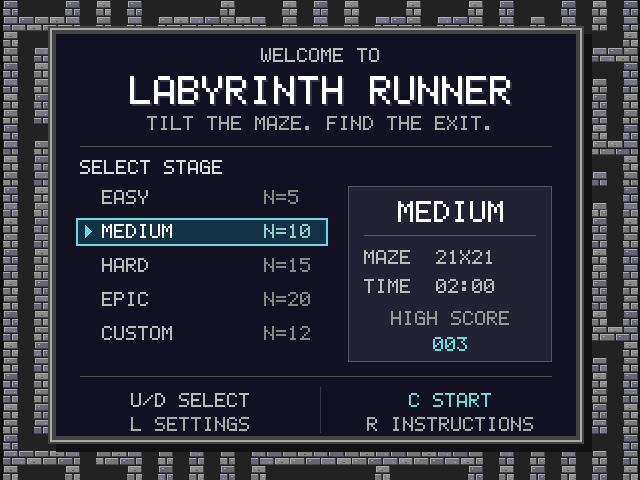
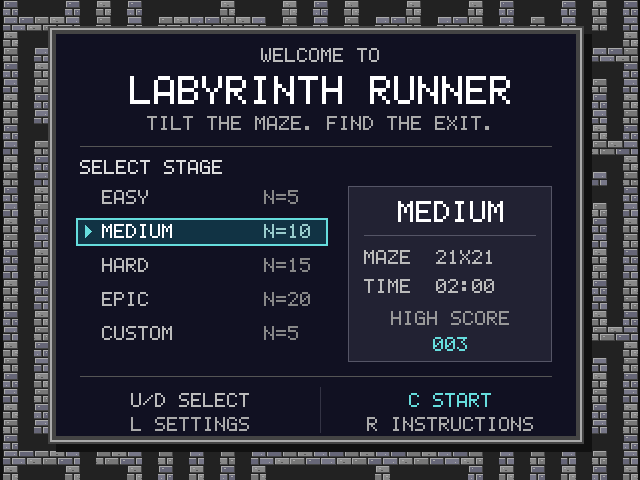
docs(10.1b): record simulations and combined routed build

Changed region(s): [[0.2188, 0.1562, 0.8125, 0.2188], [0.4375, 0.6875, 0.5, 0.7188]]

diff --git a/_bmad-output/implementation-artifacts/10-1b-menu-ui.md b/_bmad-output/implementation-artifacts/10-1b-menu-ui.md
@@ -1,7 +1,7 @@
 ---
 story_id: 10.1b
 title: Labyrinth Runner menu and state palettes
-status: in-progress
+status: review
 owner: CJX
 reviewers: [DY, QZ]
 depends_on: [10.1a]
@@ -16,8 +16,8 @@ The separate OLED footer fix is PR #98 (`a154c7f`).
 ## Agreed scope
 
 - Title **LABYRINTH RUNNER**, gray stone menu backdrop, dark slate panel and
-  teal selection. All five stage choices appear on VGA and use the existing
-  OLED/menu selection: EASY, MEDIUM, HARD, EPIC, CUSTOM.
+  teal selection. The four preset difficulties plus CUSTOM make five menu
+  choices, matching OLED: EASY, MEDIUM, HARD, EPIC, CUSTOM. No difficulty is added.
 - Stage details show the actual maze dimensions and configured per-maze time
   limit. HIGH SCORE replaces the draft MAZE CLEARED wording and reads the
   existing best completed-maze count for that preset, matching OLED HIGH.
@@ -39,13 +39,18 @@ module still draws settings/instructions. Configured timer parameters are
 passed to the menu, including custom size limits, so the UI does not hardcode
 sample scores or the default countdown values.
 
+Fixed character boxes decode in parallel before the single synchronous font
+lookup. The first routed build exposed an overly long origin/divide/string
+selection path (WNS -8.715 ns); the revised decoder removes that serial path
+while preserving the approved pixels and one-clock overlay alignment.
+
 `render` snapshots the palette with other frame state. `brick_wall_pixel`
 retains the approved 16x8 pattern and selects warm/gray RGB444 colours. The
 menu also has a charcoal floor/background; ordinary PLAY floor is unchanged.
 
 Acceptance checks:
 
-1. All five stages, CUSTOM N=5..20 and preset scores/dimensions/times render
+1. All five menu choices, CUSTOM N=5..20 and preset scores/dimensions/times render
    correctly; selected stage and record agree with OLED data.
 2. HIGH SCORE means best consecutive completed mazes for the selected preset,
    not elapsed time or a new scoring mechanism.
@@ -56,13 +61,55 @@ Acceptance checks:
    timing/resource evidence recorded here before the board handoff.
 
 The existing `tb_menu_ctrl` fixture still described the earlier four-stage
-menu, 36-bit scores and CUSTOM 2..20. It is updated to the current five-stage,
+menu, 36-bit scores and CUSTOM 2..20. It is updated to the current five-choice,
 48-bit score and CUSTOM 5+offset contract; menu-controller RTL is unchanged.
 
 ## Validation
 
-Menu text/snapshot checks and state-palette checks pass. Broader regression and
-build results will be appended after completion. No board PASS is claimed.
+Vivado 2025.2 on 2026-11-05:
+
+- `source tb/run_story101b.tcl`: **15/15 PASS**, exit 0, repeated on final RTL
+  commit `a264f01` after the timing refactor (20:13 Singapore).
+  Includes new welcome/palette checks plus menu controller, legacy banner,
+  OLED formatter, generated/top render, rotation, N=15/N=20 cameras, fog,
+  WIN/LOSE and existing top menu/settings/replay integration.
+- Welcome checks 53,606 text pixels, all preset score slices, CUSTOM bounds,
+  dimensions, per-maze time limits, symmetric control hints, blanking and
+  live-input snapshot isolation. Palette checks all six shared game states,
+  mid-frame stability, pause/resume, menu floor and ordinary PLAY floor.
+- Five full 640x480 RTL overlay frames were captured. Geometry/colours match
+  the approved preview pixel-for-pixel outside its decorative title shadow;
+  the shadow is omitted to keep a single font lookup. The documented preview
+  combines that captured overlay with an illustrative gray maze backdrop.
+- No full current-stories suite PASS is claimed. The old four-stage fixture
+  failures were corrected before the successful final focused run.
+- The isolated combined checkout also passes `tb_oled_status_text`, including
+  the exact `BTNC MENU` footer from PR #98.
+
+Final combined build completed at 20:19 Singapore. No board PASS is claimed.
+
+- Isolated checkout: `C:/EE2026Projects/labyrinth-combined-ui`, commit
+  `c7cce0f43c5333f6f8e9504c9f9737a099367b80`; contains UI RTL `a264f01`,
+  texture PR #99 and OLED footer PR #98.
+- Fresh project: `C:/EE2026Projects/build-story101b-combined-20261105-201009`.
+- Routed timing: WNS **+0.222 ns**, WHS **+0.052 ns**, TNS/THS zero.
+  All user-specified timing constraints met; 14,988/14,988 routable nets fully
+  routed, zero routing errors. DRC has zero errors (seven existing DSP
+  pipelining advisories).
+- Placed resources: 8,242 LUTs (39.63%), 7,507 FFs (18.05%), 4.5 BRAM tiles,
+  six DSPs, zero MMCM/PLL; within AD-8 budgets.
+- Routed clocks include `sys_clk_pin` at 100 MHz and `clk_6m25` at 6.25 MHz;
+  zero no-clock pins and zero unconstrained internal endpoints. Existing
+  external-I/O delay warnings remain; this does not claim board-interface
+  timing signoff. No constraint was weakened for this UI change.
+- Stable board file: `C:/EE2026Projects/menu-gray-preview/Story10_1b_Combined.bit`.
[1 lines of base64/hex data omitted]
+
+A fresh fetch after validation still reports `origin/main` at PR #97 merge
+`dd55bad`. That exact main revision contains the five-choice controller and
+the stale four-choice `tb_menu_ctrl`; updating the fixture is not a new
+gameplay feature. Menu controller, game controller, timer and physics RTL
+remain unchanged.
 
 ## Combined physical-test build
 
@@ -73,7 +120,7 @@ all three changes without merging them prematurely.
 
 Board checklist:
 
-1. Start/menu: title, gray masonry, HIGH SCORE, five stages, symmetric hints.
+1. Start/menu: title, gray masonry, HIGH SCORE, five choices, symmetric hints.
    U/D highlights the same stage on VGA and OLED; each preset has its own record.
 2. Toggle SW3..SW0 while on CUSTOM: N=5+offset, correct maze/time fields, score
    `--`. EASY/MEDIUM/HARD/EPIC use N=5/10/15/20. SW4 is unused.
